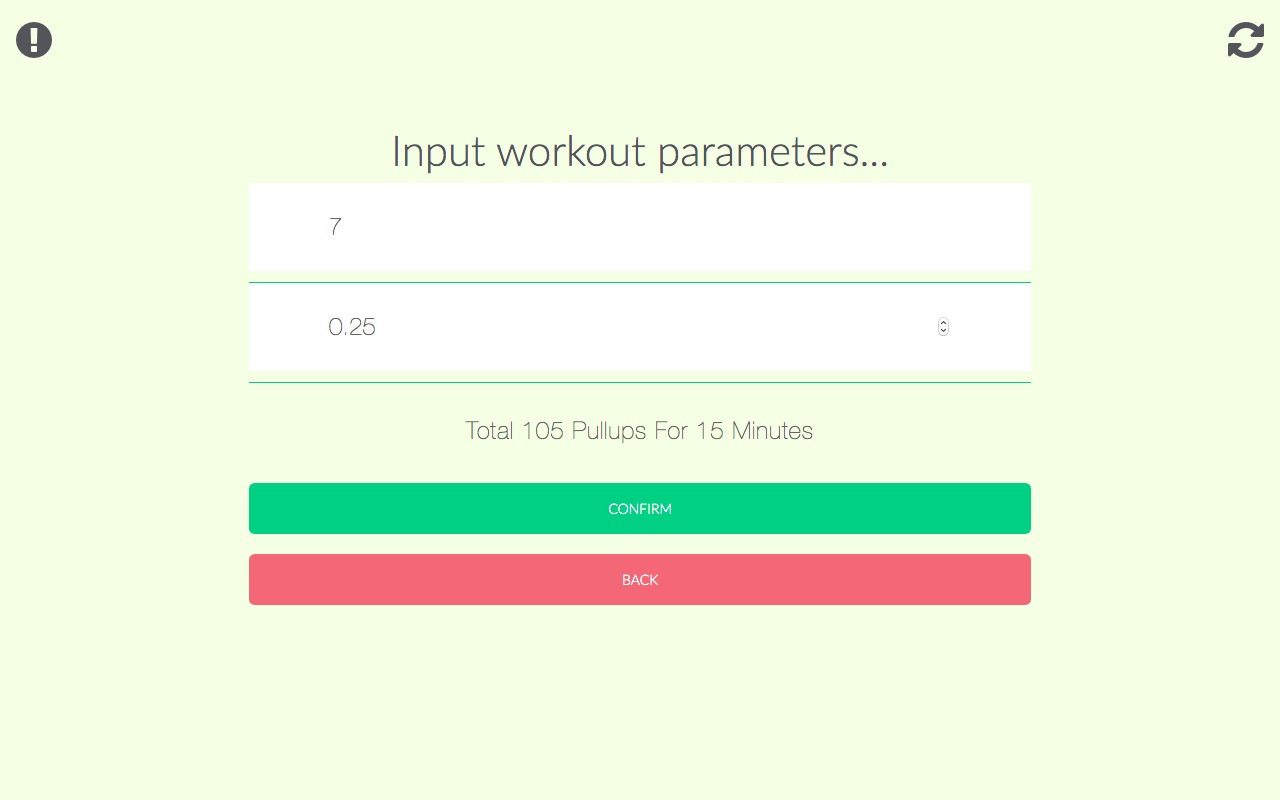
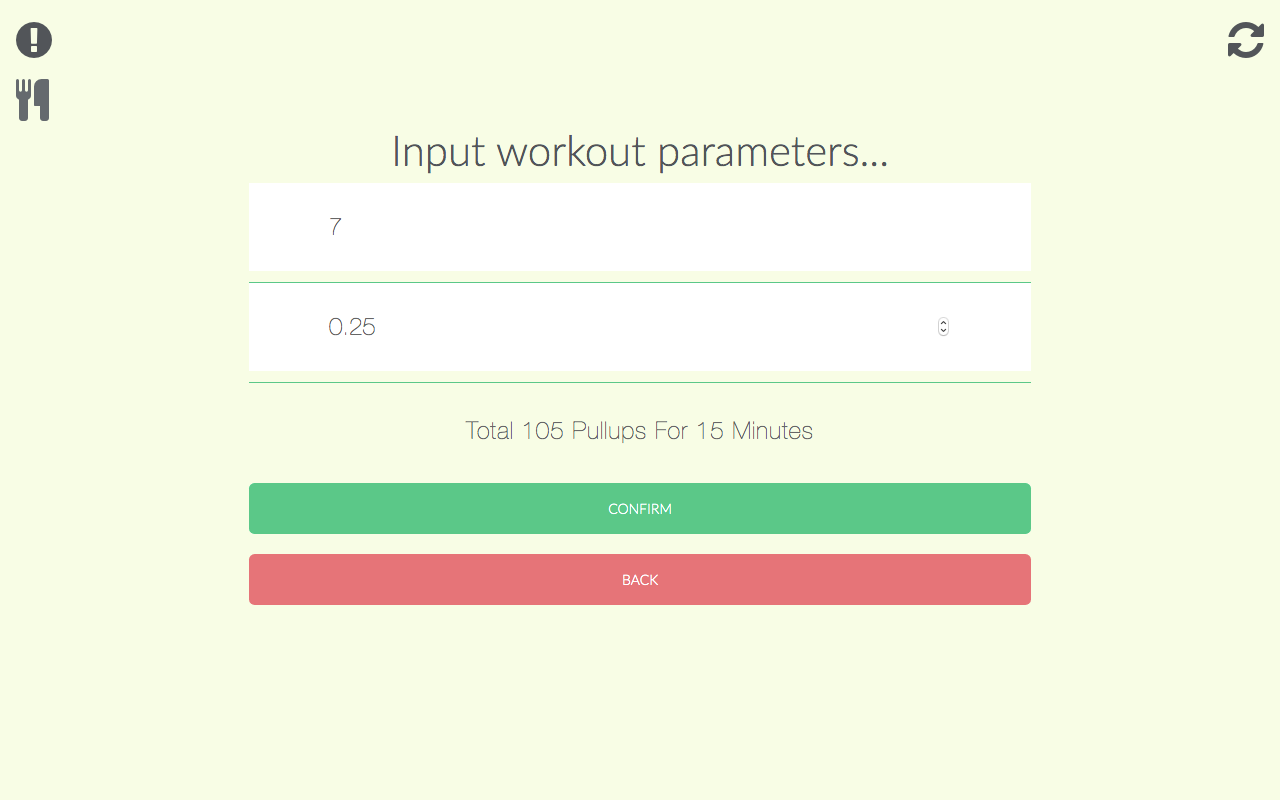
updated screenshots and minor fixes

Changed region(s): [[0.1875, 0.5938, 0.8125, 0.6875], [0.0, 0.0938, 0.0625, 0.1562]]

diff --git a/index.html b/index.html
@@ -25,7 +25,7 @@
     <script src="libraries/filesaver/FileSaver.js"></script>
     <script src="libraries/filesaver/Blob.js"></script>
   </head>
-  <body class="tc" style="background-color: rgb(51, 51, 51);">
+  <body class="tc">
     <!-- Disclaimer -->
     <h1 class="pointer headline-primary--grouped disclaimer" data-action="disclaimer" title="Disclaimer">
       <i class="fa fa-exclamation-circle"></i>
@@ -44,7 +44,7 @@
     </h1>
     
     <!-- Centered Game Area -->
-    <div class="table" style="background-color: rgb(248, 255, 230);">
+    <div class="table">
       <div class="cell">
         <div class="grid" data-display="grid">
           <div class="centered grid__col--9">

diff --git a/js/script.js b/js/script.js
@@ -469,7 +469,6 @@ function abortWorkout() {
   countPause = 1;
   workoutStatus = "waiting";
   $("[data-display=break]").html("&nbsp;");
-  $("[data-action=randomize]").fadeIn(250);
   clearTimeout(runTimer);
   abortSound();
 }
